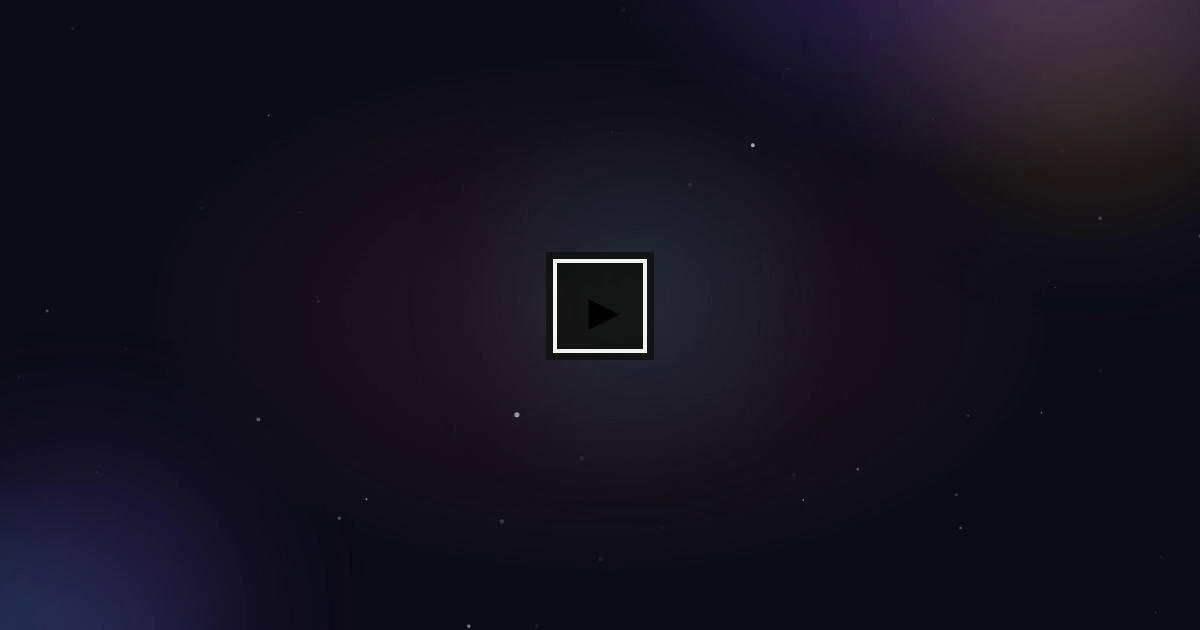
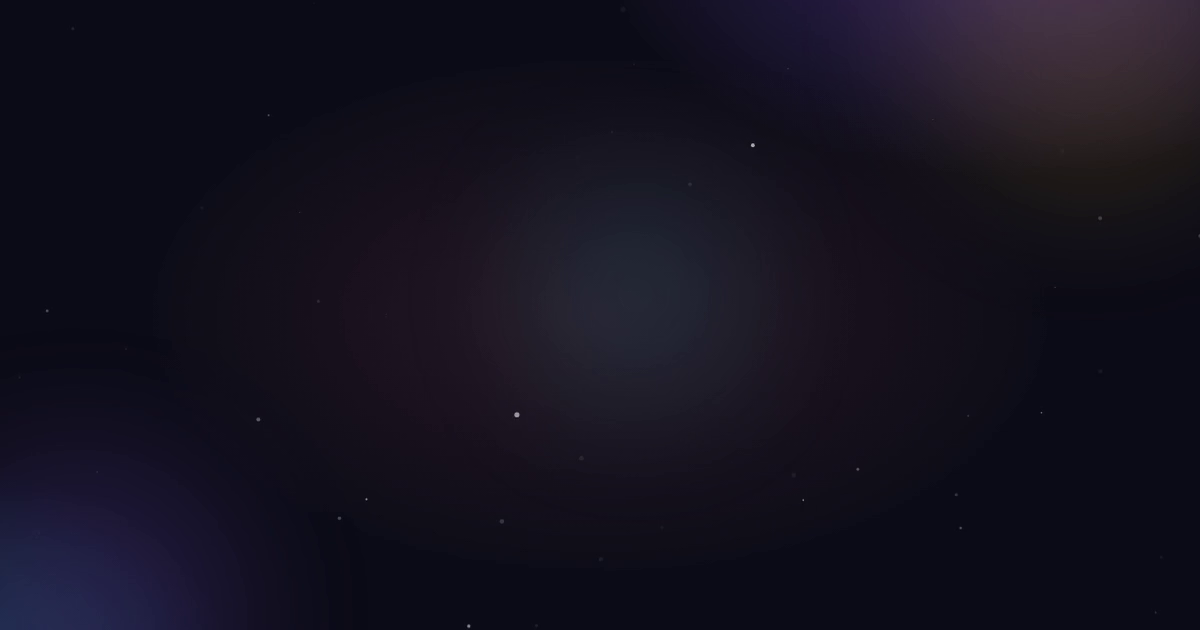
docs: README demo as static image only (no video link)

Changed region(s): [[0.4317, 0.3921, 0.555, 0.573]]

diff --git a/README.md b/README.md
@@ -3,10 +3,7 @@
 ## ▶ Demo
 
 <p align="center">
-  <a href="media/epub2tts-demo.mp4" target="_blank">
-    <img src="media/epub2tts-demo.png" alt="epub2tts-chatterbox-next demo: EPUB → Text → Chatterbox TTS → M4B" width="100%">
-  </a><br>
-  <sub><a href="media/epub2tts-demo.mp4">▶ watch the full demo</a> — EPUB → Text → Chatterbox TTS → M4B, one Docker command</sub>
+  <img src="media/epub2tts-demo.png" alt="epub2tts-chatterbox-next demo: EPUB → Text → Chatterbox TTS → M4B" width="100%">
 </p>
 
 ## 👤 Attribution
